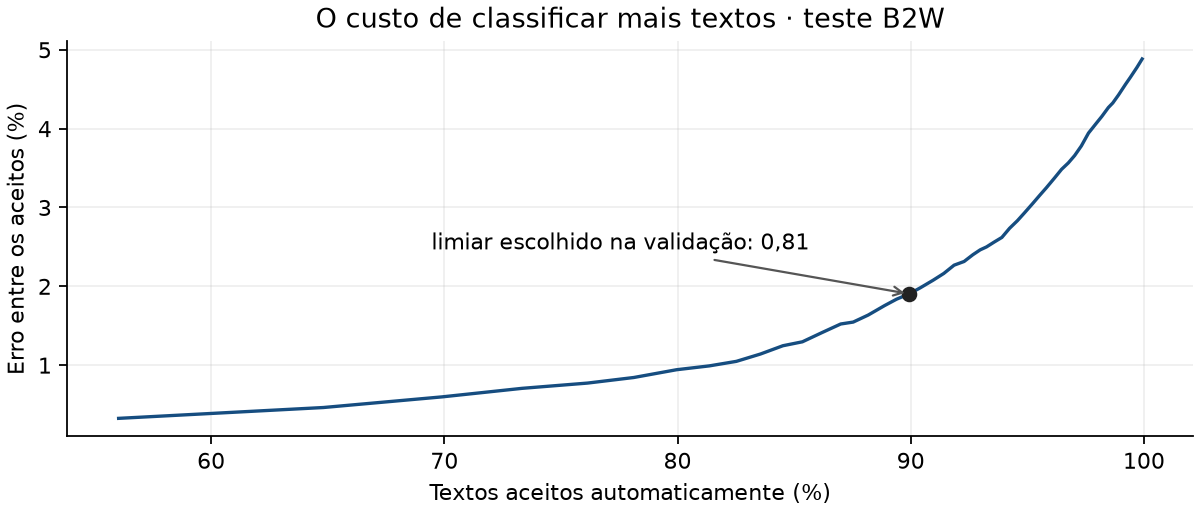
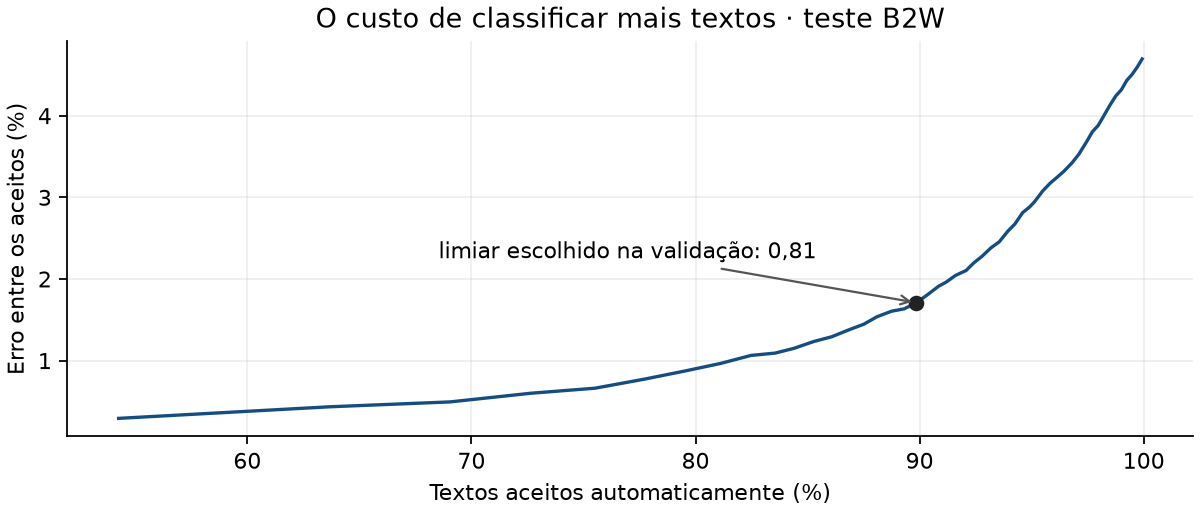
docs: apresenta comparação e prepara versão 0.3

diff --git a/docs/decisoes.md b/docs/decisoes.md
@@ -3,9 +3,11 @@
 ## Modelo
 
 TF-IDF e regressão logística permitem treinar em CPU e inspecionar os pesos.
-O vocabulário usa palavras e pares de palavras. Não removo stopwords para
-preservar expressões como “não recomendo”. C=0,5, 2 e 8 são comparados pelo
-macro-F1 na validação; venceu C=8.
+O vocabulário usa sequências de uma a três palavras. Não removo stopwords
+para preservar expressões como “não recomendo”. Seis configurações foram
+comparadas pelo macro-F1 na validação: diferentes vocabulários, regularização,
+trigramas e caracteres. Venceu trigram100-c8, com até 100 mil features,
+min_df=2 e C=8. Os resultados de cada candidato estão em comparison.json.
 
 O baseline sempre prevê a classe majoritária. Ele acerta 70,77% do teste,
 mas não identifica nenhuma avaliação negativa. Por isso a comparação usa
@@ -18,8 +20,8 @@ Wilson de 95% para o erro fique em até 2%, com pelo menos 100 textos aceitos.
 A busca percorre 0,50 a 0,99 em passos de 0,01. Sem candidato, tudo vai para
 revisão. Textos sem termos conhecidos também vão para revisão.
 
-No teste, o limiar 0,81 aceita 89,93% dos textos e erra 1,90% nessa parcela.
-O limite superior de Wilson fica em 2,13%. A meta de validação não é uma
+No teste, o limiar 0,81 aceita 89,85% dos textos e erra 1,71% nessa parcela.
+O limite superior de Wilson fica em 1,93%. A meta de validação não é uma
 garantia sobre novos dados. Os scores não foram calibrados.
 
 ## Avaliação
@@ -28,7 +30,7 @@ O piloto usava uma meta de 10%, que aceitava quase tudo na validação.
 A meta foi reduzida para 2% após o piloto, quando o primeiro resultado de
 teste já havia sido visto. Os resultados publicados são exploratórios.
 
-C e limiar compartilham a validação. O intervalo não corrige a busca entre
+Modelo e limiar compartilham a validação. O intervalo não corrige a busca entre
 candidatos nem a dependência entre avaliações do mesmo produto.
 O artefato salvo foi treinado só no treino; refazê-lo com a validação mudaria
 os scores usados para escolher o limiar.
@@ -37,3 +39,22 @@ A limpeza remove conflitos de rótulo no corpus inteiro. As métricas valem
 para essa base filtrada. O split isola produtos, mas não autores ou datas.
 
 [Parâmetros e métricas](../reports/metrics.json) · [Erros](../reports/errors.json)
+
+## Comparação e dados externos
+
+O teste B2W é o mesmo da versão 0.2, com os mesmos hashes de partição.
+O novo modelo corrige 84 erros e introduz 52: saldo de 32 a menos.
+O bootstrap pareado por produto, com 2.000 réplicas e semente 42, dá intervalo
+percentil de 95% para o ganho de acurácia entre 0,051 e 0,330 ponto percentual.
+Esse intervalo descreve o teste conhecido, sem transformar a exploração em
+avaliação confirmatória. Reprodução: `uv run python scripts/compare.py --baseline modelo-antigo.pkl`.
+
+A Olist foi reservada para avaliação externa depois da seleção no B2W.
+Removi comentários vazios, duplicatas, conflitos, três estrelas e textos que
+aparecem em qualquer partição do B2W bruto. Restaram 30.211 comentários.
+Não houve treino ou ajuste de limiar na Olist. O erro seletivo externo é 3,88%,
+com cobertura de 84,50%. O desempenho menor que no B2W expõe a mudança de fonte.
+
+Reprodução: `uv run python scripts/evaluate_olist.py --download`.
+A medição de tempo está em `scripts/benchmark.py`: 500 predições completas,
+200 textos do teste, aquecimento de dez chamadas, sem incluir carga ou HTTP.

diff --git a/README.md b/README.md
@@ -1,7 +1,7 @@
 # Crivo
 
 Classifica avaliações em português como **positiva** ou **negativa**, com
-opção de **revisão**.
+opção de **revisão**. Roda em CPU, sem serviço externo.
 
 ![Crivo](docs/images/crivo-desktop.jpg)
 
@@ -14,39 +14,46 @@ uv run crivo train
 uv run crivo serve
 ```
 
-Abra `http://127.0.0.1:8000`. Os exemplos ficam em `/exemplos`.
-
+Abra `http://127.0.0.1:8000`. Exemplos em `/exemplos`.
 Testes: `uv run pytest -q`.
-[Modelo treinado](https://github.com/oyogi/crivo/releases/tag/v0.2.0).
+[Modelo treinado](https://github.com/oyogi/crivo/releases/tag/v0.3.0).
 
 ## Resultados
 
-Teste com 16.988 avaliações de produtos que não aparecem no treino.
+Mesmo teste com 16.988 avaliações, de produtos separados do treino.
 
-| Medida | Resultado |
-|---|---:|
-| Macro-F1 do baseline | 0,4144 |
-| Macro-F1 do modelo | **0,9409** |
-| Erro classificando tudo | 4,88% |
-| Parcela classificada sem revisão | **89,93%** |
-| Erro nessa parcela | **1,90%** |
+| Medida | 0.2 | 0.3 |
+|---|---:|---:|
+| Macro-F1 | 0,9409 | **0,9432** |
+| Acurácia | 95,12% | **95,31%** |
+| Erros classificando tudo | 829 | **797** |
+| Textos aceitos sem revisão | 89,93% | 89,85% |
+| Erro entre os aceitos | 1,90% | **1,71%** |
 
-![Cobertura e erro](docs/images/cobertura.png)
+Na avaliação externa com **30.211 comentários da Olist**, a acurácia passou
+de 91,72% para 91,89%. Esses comentários não entraram no treino nem na escolha
+do limiar.
+
+A mediana da predição completa caiu de **13,95 ms para 0,40 ms** na mesma
+máquina, sem HTTP. Uma transformação por texto e nomes de features em cache.
+
+[Comparação dos modelos](reports/comparison.json) · [Avaliação externa](reports/external_olist.json)
+· [Benchmark](reports/performance.json) · [Erros](reports/errors.json)
 
 ## Decisões
 
-- **TF-IDF + regressão logística:** treino em CPU e pesos fáceis de inspecionar.
-- **Divisão por produto:** evita avaliar o modelo nos mesmos produtos do treino.
-- **Revisão por limiar:** reduz o erro nas decisões automáticas; o limiar é
-  escolhido na validação.
+- **TF-IDF + regressão logística:** treino rápido e pesos inspecionáveis.
+- **Trigramas:** venceram seis configurações na validação. Só aumentar o
+  vocabulário ou adicionar caracteres não ajudou.
+- **Divisão por produto:** treino e teste usam produtos diferentes.
+- **Limiar de revisão:** reduz erros automáticos, mantendo a cobertura visível.
 
-As notas definem as classes: 1 e 2 são negativas; 4 e 5 são positivas.
-Três estrelas fica fora do treino. O corpus é de 2018; o resultado se refere
-à base filtrada, após um desenvolvimento exploratório.
+As notas definem as classes: 1 e 2 são negativas; 4 e 5, positivas.
+Três estrelas fica fora do treino. A avaliação é exploratória.
 
 [Protocolo](docs/decisoes.md) · [Métricas](reports/metrics.json)
-· [Erros](reports/errors.json) · [UML](docs/architecture.svg)
-· [diagrams.uml](docs/diagrams.uml)
+· [UML](docs/architecture.svg) · [diagrams.uml](docs/diagrams.uml)
 
-Dados: [B2W-Reviews01](https://github.com/americanas-tech/b2w-reviews01),
-Real, Oshiro e Mafra / B2W Digital. CC BY-NC-SA 4.0. Código MIT.
+Dados: [B2W-Reviews01](https://github.com/americanas-tech/b2w-reviews01), de
+Real, Oshiro e Mafra / B2W Digital, e [Olist](https://www.kaggle.com/datasets/olistbr/brazilian-ecommerce).
+Ambos CC BY-NC-SA 4.0. Código MIT.

diff --git a/docs/modelo.md b/docs/modelo.md
@@ -1,6 +1,6 @@
 # Modelo
 
-Crivo 0.2.0. TF-IDF com até 40 mil features e regressão logística.
+Crivo 0.3.0. TF-IDF com até 100 mil features e regressão logística.
 
 | Entrada | Saída |
 |---|---|
@@ -25,7 +25,7 @@ score alto. O corpus é de 2018 e o modelo não foi avaliado em delivery.
 O split não isola autores ou datas. O protocolo é exploratório;
 [detalhes da avaliação](decisoes.md).
 
-O pickle da [release](https://github.com/oyogi/crivo/releases/tag/v0.2.0)
+O pickle da [release](https://github.com/oyogi/crivo/releases/tag/v0.3.0)
 corresponde ao modelo avaliado. Carregue apenas pickles de origem confiável.
 As versões e o hash estão nos metadados da release.
 
